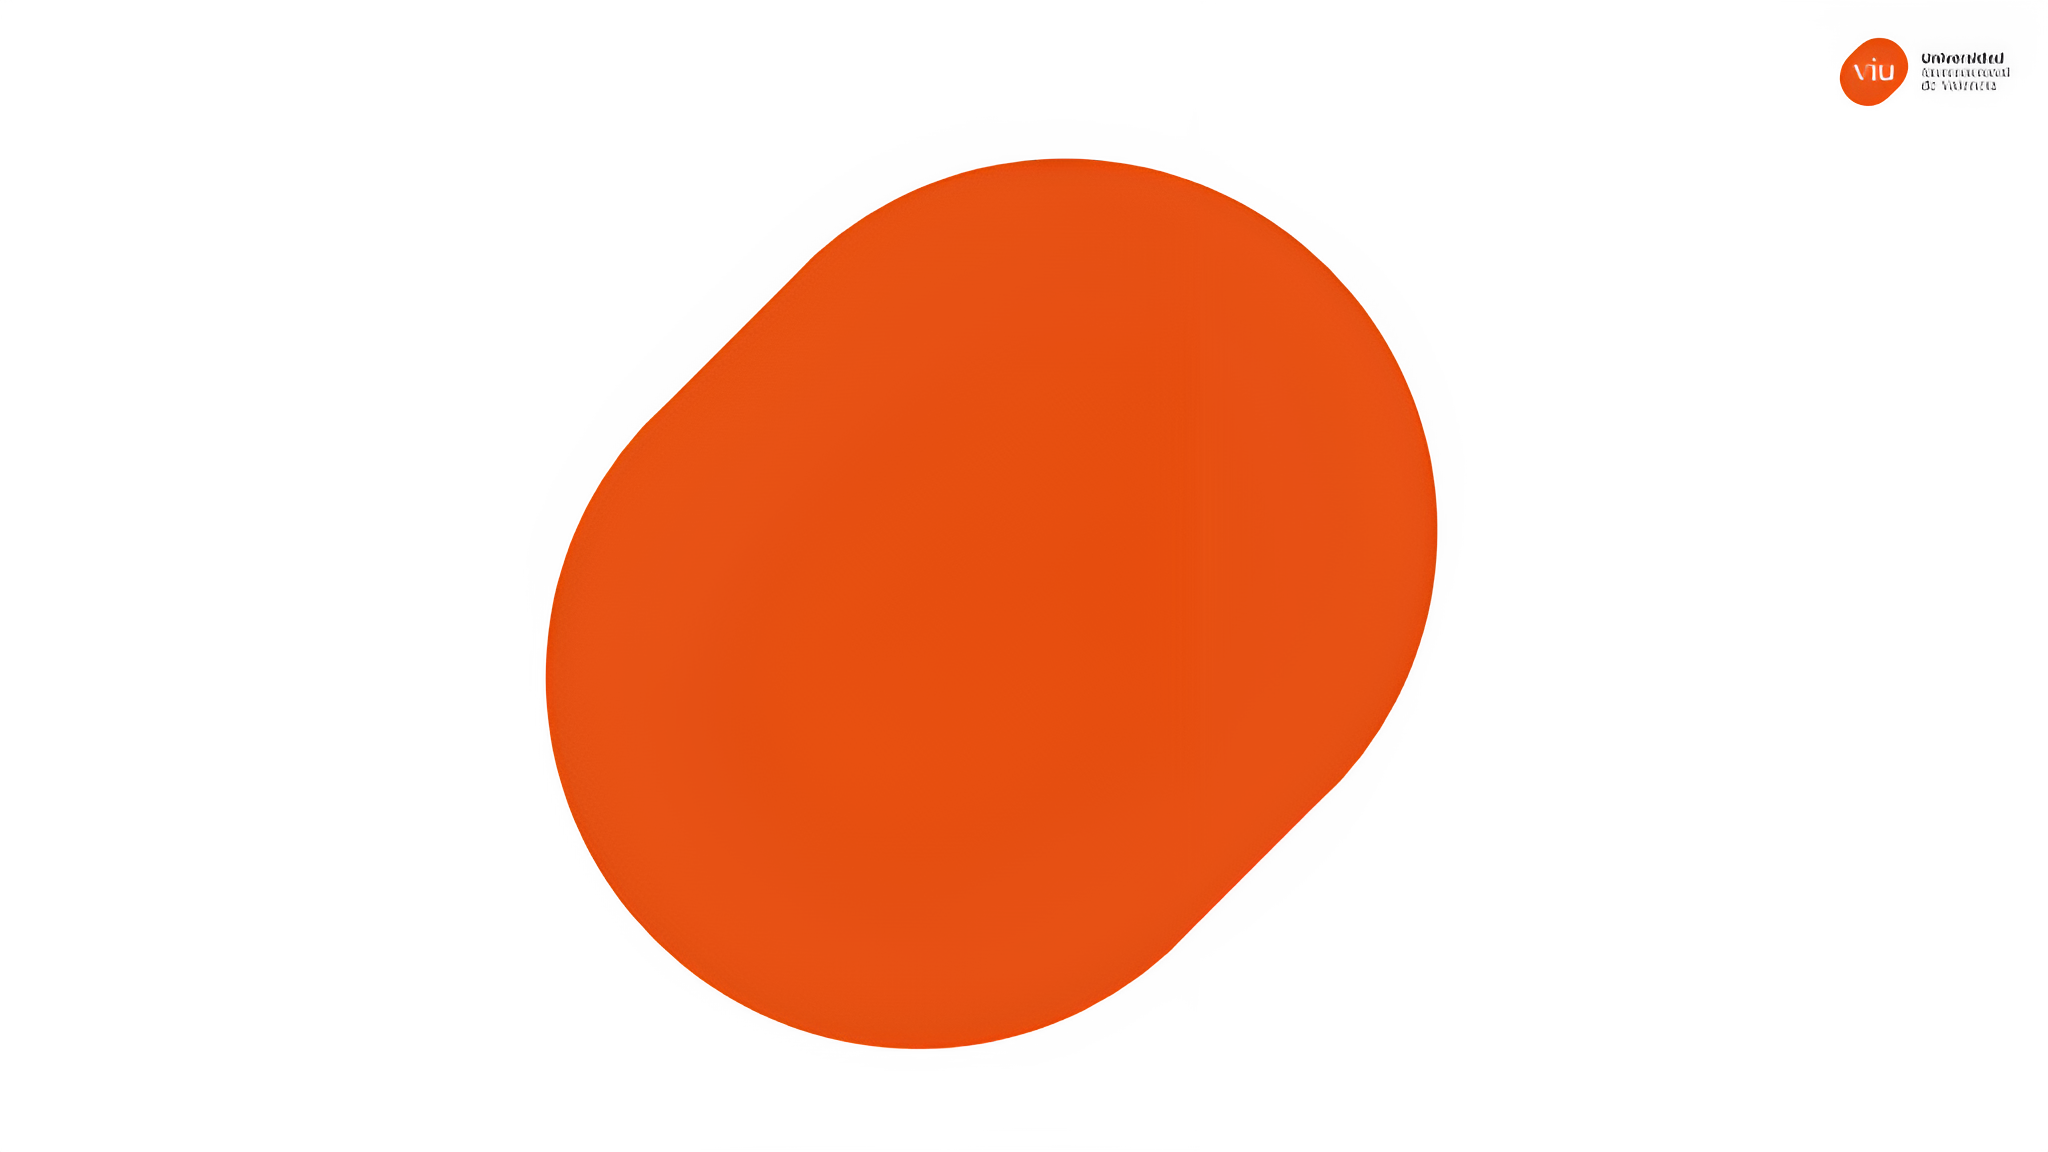
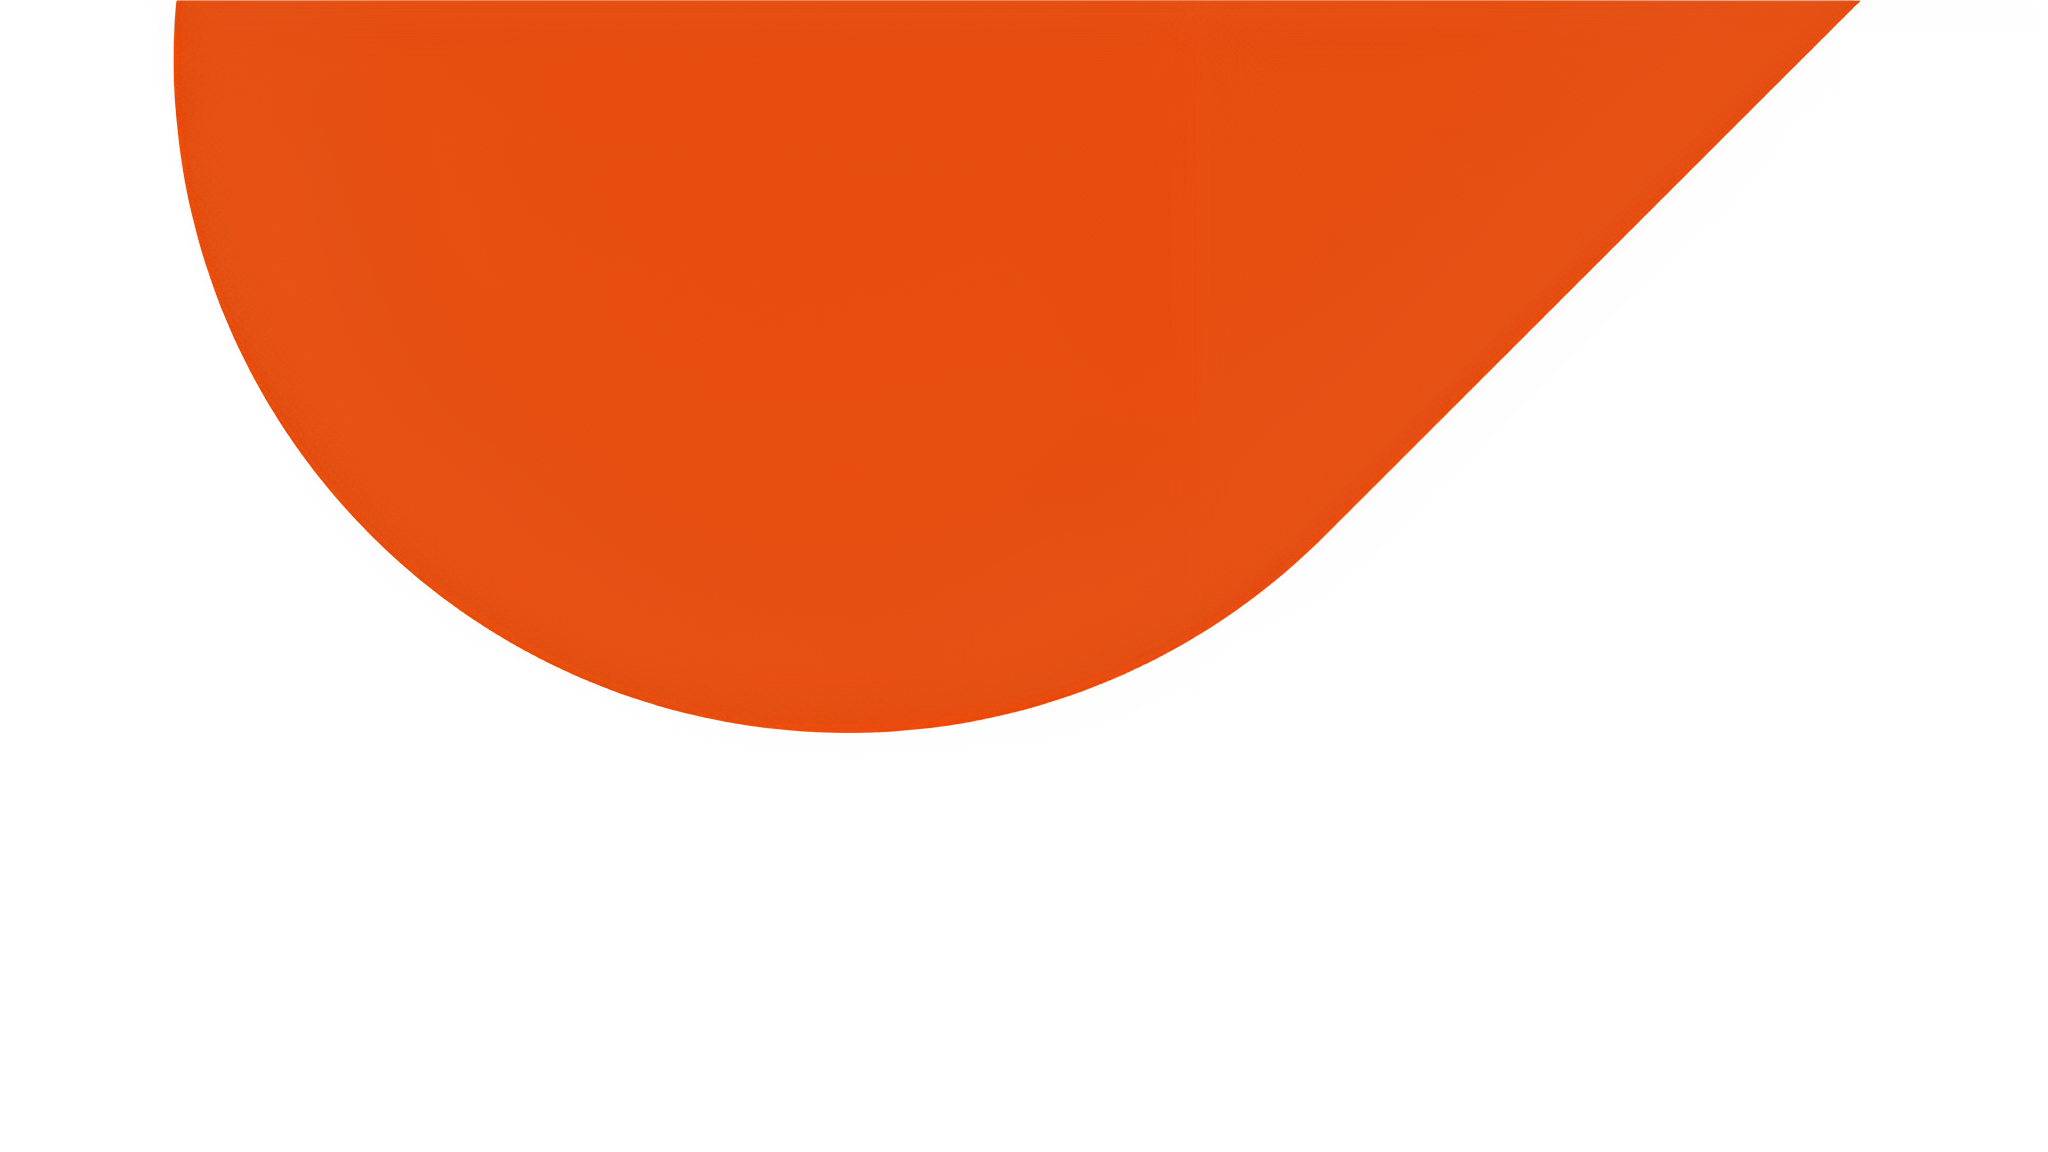
add proper template

diff --git a/components/viu-template.vue b/components/viu-template.vue
@@ -1,0 +1,21 @@
+<template>
+    <img :src="logoSrc" alt="Viu logo" class="absolute top-4 right-2 w-30">
+    <slot />
+    <footer class="absolute bottom-4 left-4 text-black">SUBTITULO_HERE</footer>
+</template>
+
+<script setup>
+import { computed } from 'vue';
+
+const props = defineProps({
+    variant: {
+        type: String,
+        default: 'default', // Default variant
+        validator: value => ['accent', 'default'].includes(value),
+    }
+});
+
+const logoSrc = computed(() => {
+    return props.variant === 'accent' ? '/assets/viu-logo-accent.png' : '/assets/viu-logo.png';
+});
+</script>

diff --git a/layouts/section.vue b/layouts/section.vue
@@ -1,0 +1,8 @@
+<template>
+  <div
+    class="slidev-layout cover ![&>*]:text-black bg-[url(/assets/new-chapter.png)] bg-cover bg-center flex items-end">
+    <viu-template>
+      <slot />
+    </viu-template>
+  </div>
+</template>

diff --git a/layouts/fact.vue b/layouts/fact.vue
@@ -1,0 +1,7 @@
+<template>
+    <div class="slidev-layout fact bg-[#E65014] ![&>*]:text-white flex items-center">
+        <viu-template variant="accent">
+            <slot />
+        </viu-template>
+    </div>
+</template>

diff --git a/layouts/cover.vue b/layouts/cover.vue
@@ -1,0 +1,5 @@
+<template>
+  <div class="slidev-layout default ![&>*]:text-black bg-[url(/assets/viu-cover.jpg)] bg-cover bg-center">
+    <slot />
+  </div>
+</template>

diff --git a/layouts/default.vue b/layouts/default.vue
@@ -1,0 +1,7 @@
+<template>
+    <div class="slidev-layout default">
+        <viu-template>
+            <slot />
+        </viu-template>
+    </div>
+</template>

diff --git a/styles/base.css b/styles/base.css
@@ -1,0 +1,5 @@
+.slidev-layout {
+    h1 {
+        @apply text-orange-500;
+    }
+  }

diff --git a/styles/index.ts b/styles/index.ts
@@ -1,0 +1,3 @@
+// styles/index.ts
+
+import "./base.css";

diff --git a/slides.md b/slides.md
@@ -1,19 +1,27 @@
 ---
 theme: seriph
-background: ./assets/background.jpg
 title: Aplicación de Reinforcement Learning y Transformers para el Aprendizaje de Idiomas
 info: |
   Presentación del Trabajo Fin de Máster
   Máster Propio en Inteligencia Artificial
   Segunda Edición, Curso Académico 2024
 transition: slide-left
-class: text-left !block !text-black
-style: "background-image: url(./assets/background.jpg);"
+colorSchema: light
+layout: cover
+defaults:
+  layout: default
 ---
 
-## Mejorando el Aprendizaje de Idiomas a través de Tecnología Adaptativa
+# Mejorando el Aprendizaje de Idiomas a través de Tecnología Adaptativa
 
 Un Nuevo Enfoque para la Adquisición de Vocabulario
+
+---
+layout: section
+---
+
+# Titulo capitulo
+
 
 ---
 
@@ -23,6 +31,29 @@ Un Nuevo Enfoque para la Adquisición de Vocabulario
 - Los estudiantes olvidan hasta el **80%** del vocabulario nuevo en pocas semanas
 - Los métodos tradicionales no abordan los patrones de aprendizaje individuales
 - Existe una creciente desconexión entre la ciencia del aprendizaje y la tecnología educativa
+
+---
+layout: fact
+---
+
+# asdklajsdkl
+
+
+
+---
+layout: two-cols
+---
+
+# Left
+
+This shows on the left
+
+::right::
+
+# Right
+
+This shows on the right
+
 
 ---
 
